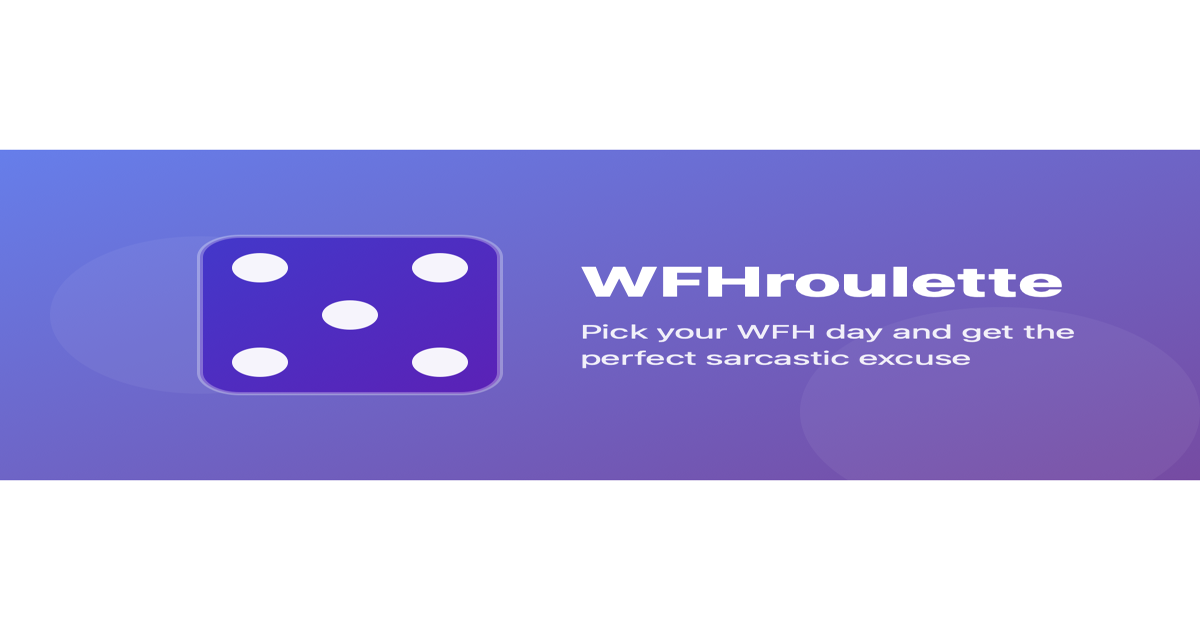
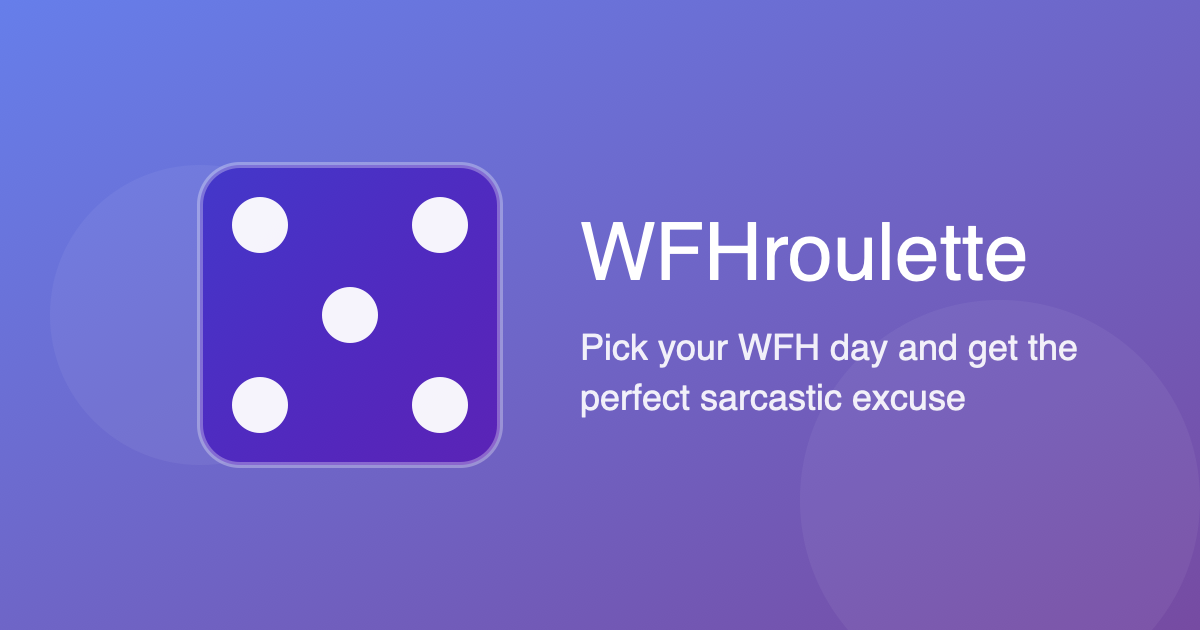
Fix social sharing preview and branding consistency
- Regenerate og-image.png without whitespace for better social previews
- Remove emoji dice from title tags to match SVG favicon and logo
- Resolves inconsistency between emoji in meta tags and SVG dice in UI

Fixes #4

🤖 Generated with [Claude Code](https://claude.com/claude-code)

diff --git a/web/index.html b/web/index.html
@@ -3,14 +3,14 @@
   <head>
     <meta charset="utf-8" />
     <meta name="viewport" content="width=device-width, initial-scale=1" />
-    <title>WFHroulette 🎲</title>
+    <title>WFHroulette</title>
 
     <!-- Favicon -->
     <link rel="icon" type="image/svg+xml" href="/web/favicon.svg" />
 
     <!-- Social Media Meta Tags -->
     <meta name="description" content="Generate hilariously sarcastic excuses for your Work-From-Home days" />
-    <meta property="og:title" content="WFHroulette 🎲" />
+    <meta property="og:title" content="WFHroulette" />
     <meta property="og:description" content="Generate hilariously sarcastic excuses for your Work-From-Home days" />
     <meta property="og:type" content="website" />
     <meta property="og:url" content="https://wfh.aibuilderlab.com" />
@@ -19,7 +19,7 @@
     <meta property="og:image:height" content="630" />
     <meta property="og:image:alt" content="WFHroulette - Pick your WFH day and get the perfect sarcastic excuse" />
     <meta name="twitter:card" content="summary_large_image" />
-    <meta name="twitter:title" content="WFHroulette 🎲" />
+    <meta name="twitter:title" content="WFHroulette" />
     <meta name="twitter:description" content="Generate hilariously sarcastic excuses for your Work-From-Home days" />
     <meta name="twitter:image" content="https://wfh.aibuilderlab.com/web/og-image.png" />
 
